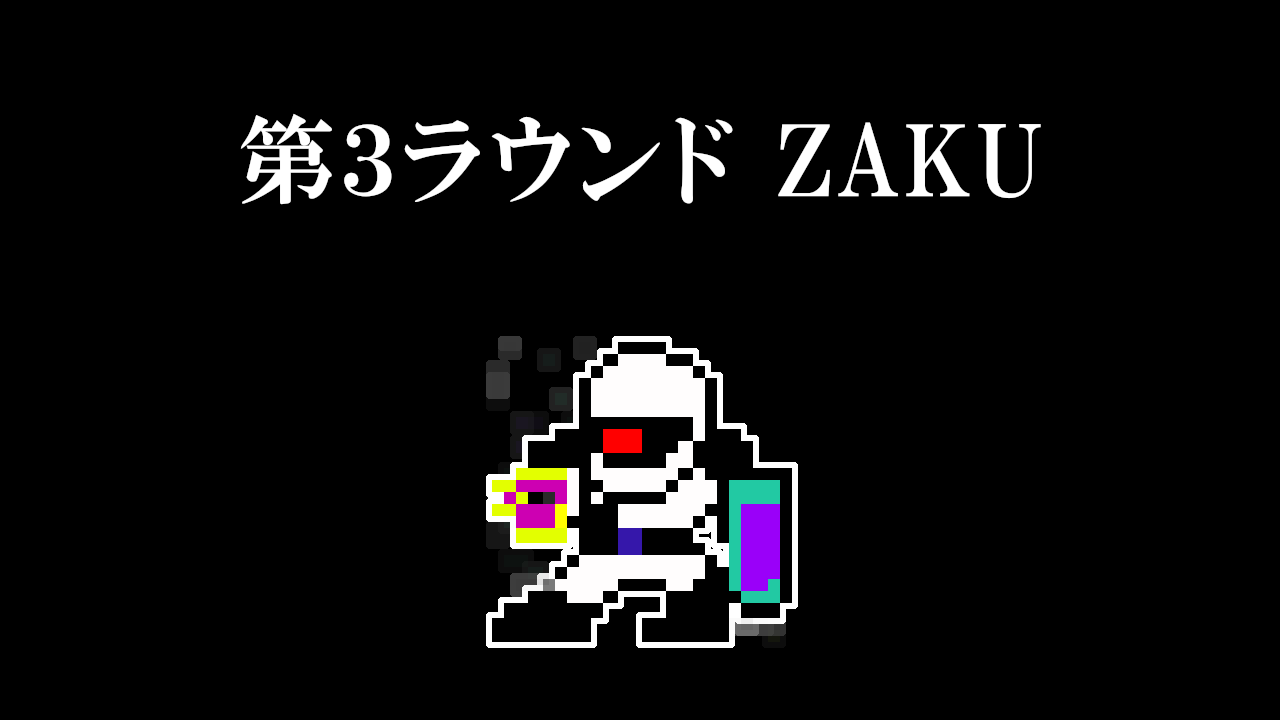
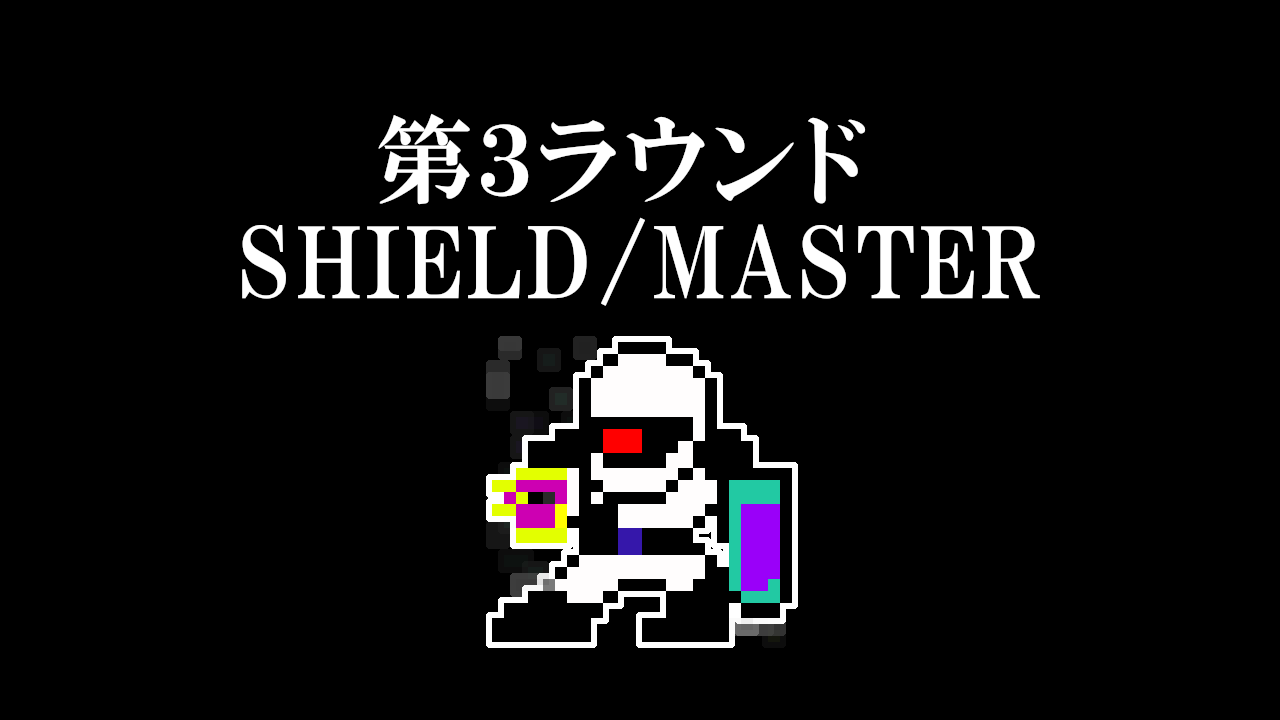
Round3

Changed region(s): [[0.1875, 0.3056, 0.8125, 0.4278], [0.1875, 0.1528, 0.8125, 0.275]]

diff --git a/Rock-Paper-Scissors/Stage_Base.cpp b/Rock-Paper-Scissors/Stage_Base.cpp
@@ -31,7 +31,7 @@ namespace _CONSTANTS_SB
 	{
 		"NIWATORI",       //1
 		"KAERU",        //2
-		"ZAKU",           //3
+		"SHIELD/MASTER",           //3
 		"RED EYE",       //4
 		"METAL",         //5
 		"JAN NINJA",      //6
